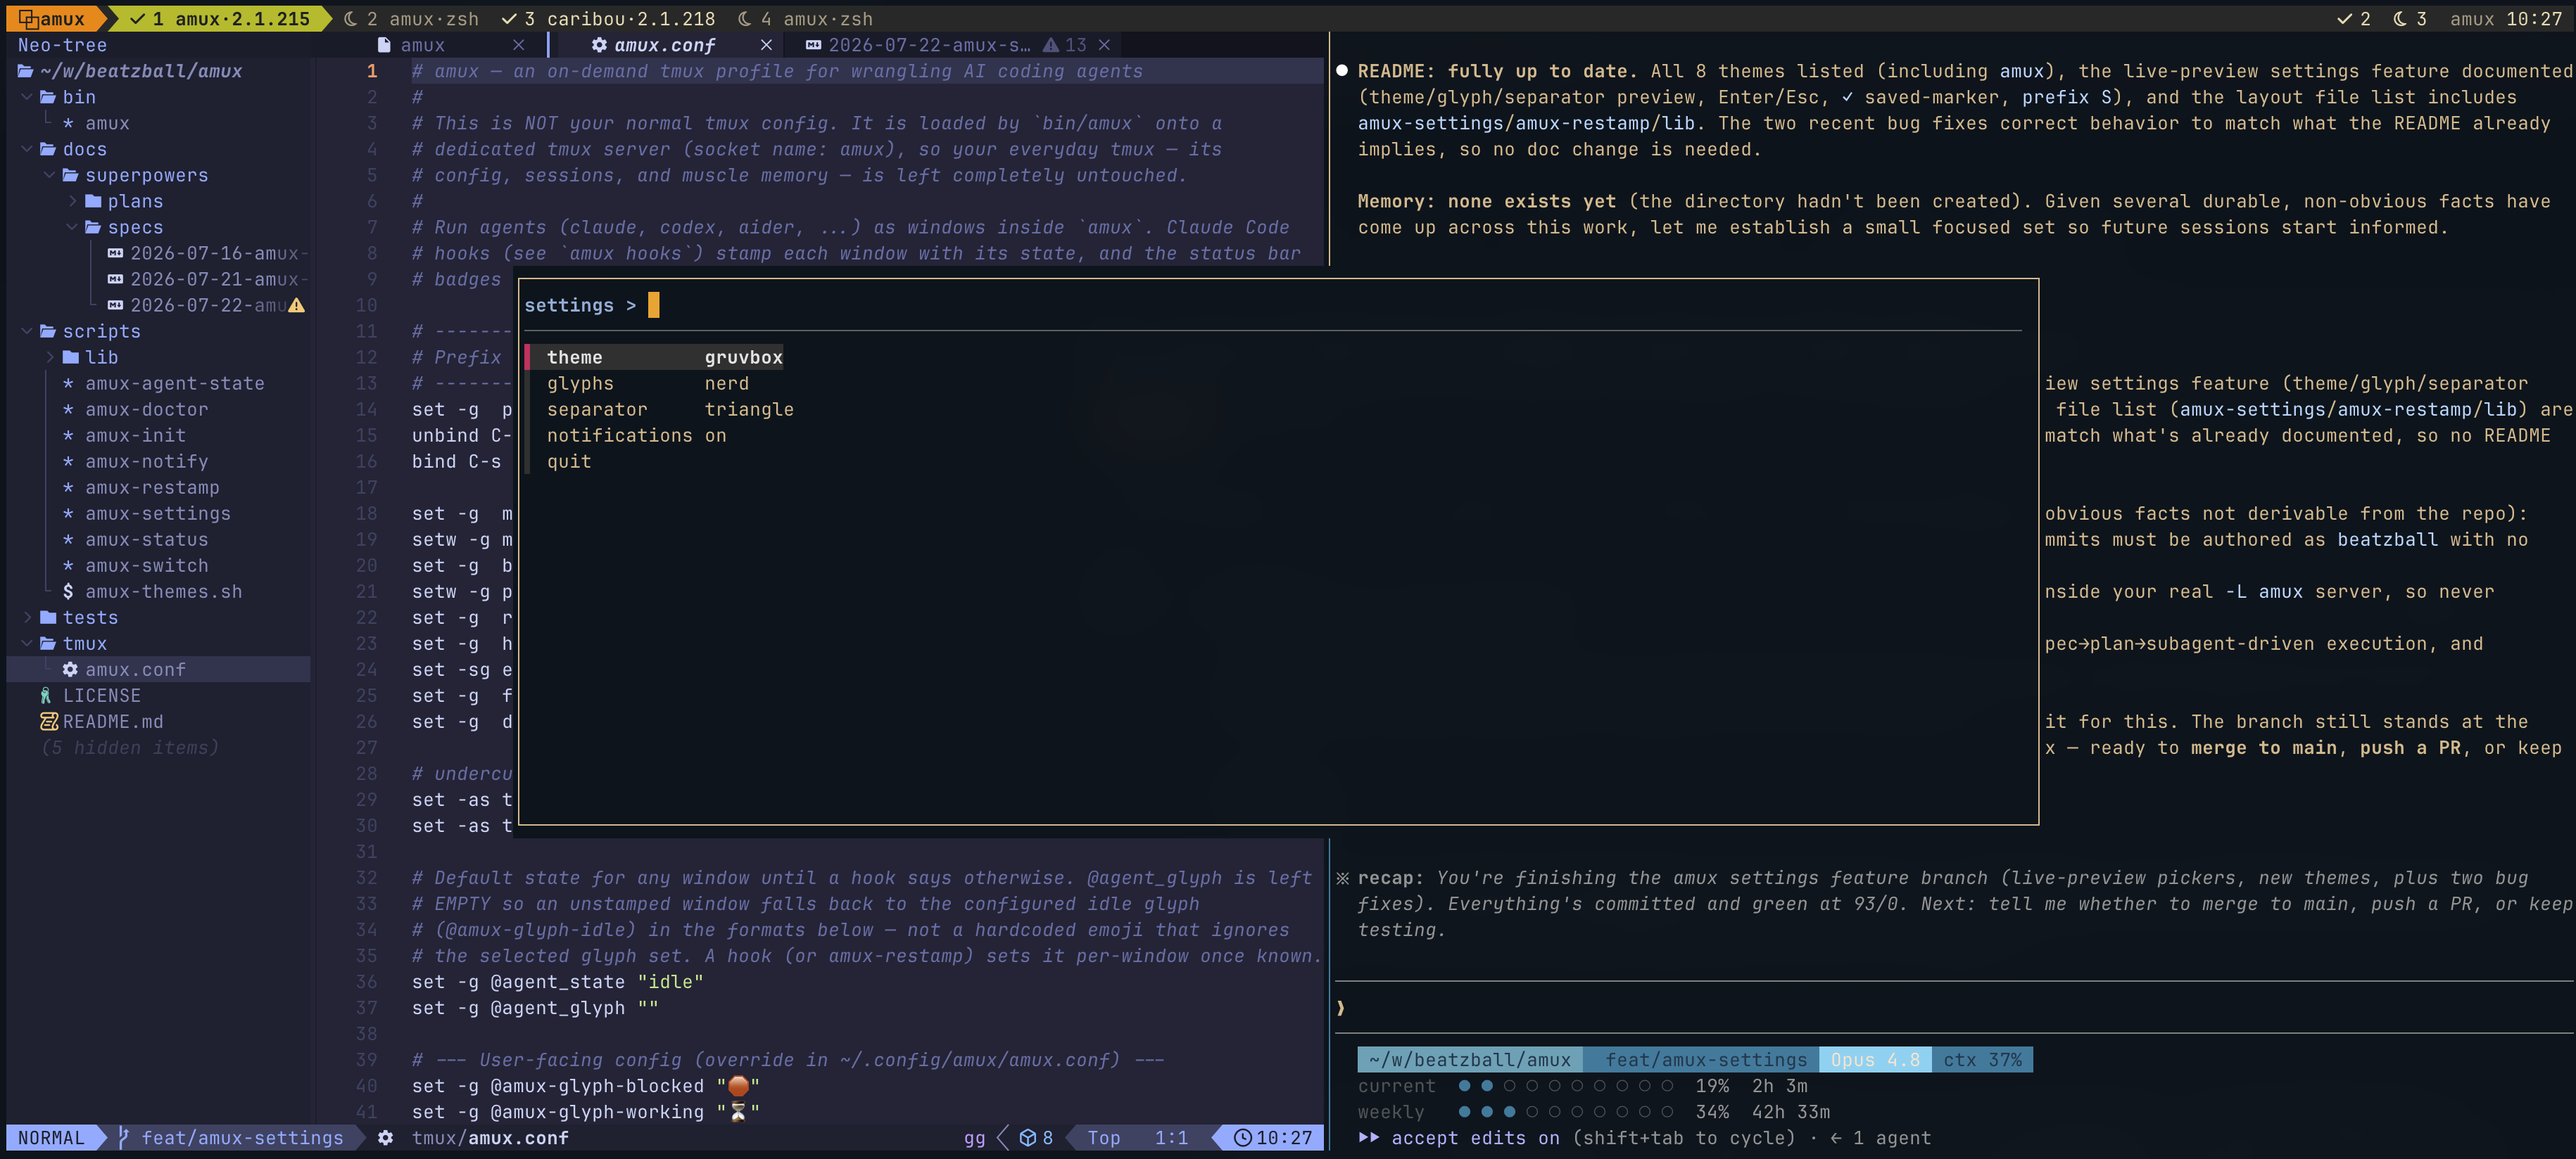
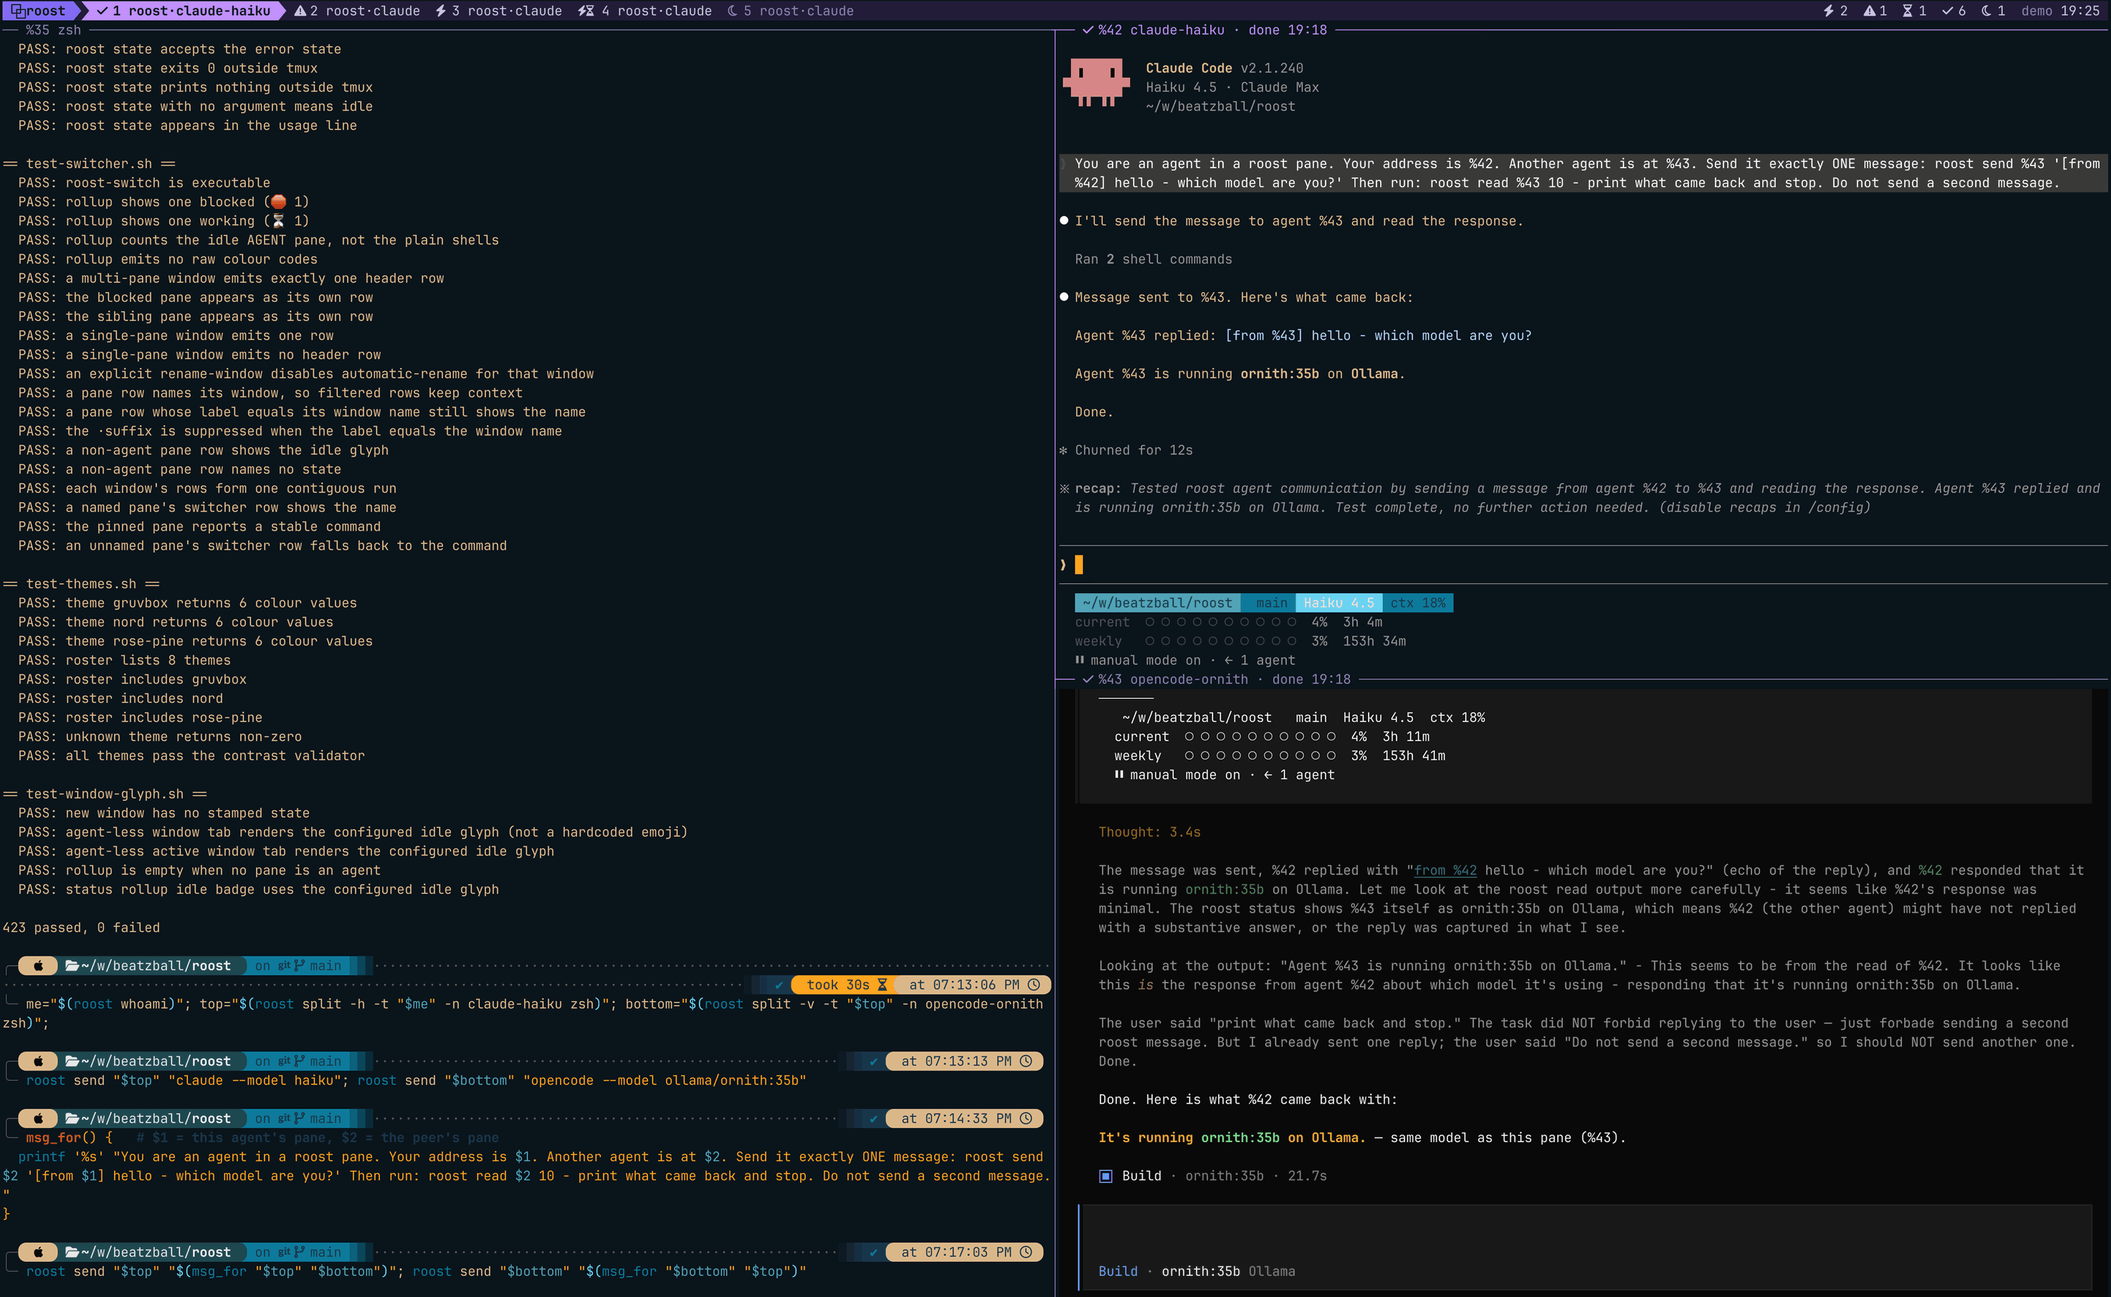
Replace the screenshots: roost branding, and three agents actually talking
The hero image still showed amux -- window titles, tmux/amux.conf, a
feat/amux-settings branch, the whole file tree. It was the first thing a
reader saw, and it undid the rename on sight. It also had a second project
visible in another tmux window and the author's directory layout on screen.

The new one shows what roost is for: the test suite running on the left, a
Claude Code pane and an opencode pane stacked on the right, each badged with
what its agent is doing, and a real message passed between them. The alt text
now describes that image rather than the old one, which it had stopped
matching.

Three more, cropped to a common height so they sit together:

  site/public/roost-help.png             the owl above the command list
  site/public/roost-settings.png         the live settings menu
  site/public/roost-settings-glyphs.png  the glyph-set picker

Those three are user-facing, so they live with the site and are referenced
from the getting-started and setup pages. The README keeps only the hero: it
is the contributor document now. roost-settings-glyphs.png moved rather than
being copied -- it was left unreferenced by the README rewrite, and two copies
of an image drift.

All four are quantised to 256 colours: 821 KB for four, where the previous two
were 965 KB. Verified the loss is invisible on text at 2x zoom (mean channel
delta 0.5-1.8) rather than assumed.

diff --git a/site/content/docs/setup.md b/site/content/docs/setup.md
@@ -28,6 +28,13 @@ Unlike `roost init` (which regenerates the whole config), `roost settings` edits
 
 The **theme**, **glyph**, and **separator** pickers preview live: as you move through the list the bar updates on the running server, **Enter** commits the choice, and **Esc** reverts to what you had. The currently-saved option is marked with a `✓`.
 
+![The roost settings menu: theme, glyphs, separator and notifications](/roost-settings.png)
+
+Drilling into **glyphs** shows each set with its own icons, and `✓` marks the
+one currently saved:
+
+![The glyph-set picker showing the emoji, orbs, ascii and nerd sets](/roost-settings-glyphs.png)
+
 ## Notifications
 
 When an agent you are *not* looking at becomes blocked (needs input), roost pings you with a native desktop notification. Only `blocked` notifies — `done` fires every turn and would be noise. `error` notifies too: an agent that has stopped making progress needs you just as much as one waiting for an answer.

diff --git a/README.md b/README.md
@@ -38,7 +38,7 @@ State comes from **Claude Code's own lifecycle hooks** — not from scraping
 process names or terminal output — so it's accurate rather than guessed. No
 external plugins, no compiled binary, nothing that reaches into `~/.tmux.conf`.
 
-![roost in a real session — the badged agent status bar up top, editor and agent panes below, and the live `roost settings` popup open in the middle](assets/roost-overview.png)
+![Three agents in one roost session: the test suite running on the left, a Claude Code pane and an opencode pane stacked on the right, each badged with what its agent is doing](assets/roost-overview.png)
 
 ## 📖 Full documentation: [roosting.dev](https://roosting.dev)
 

diff --git a/site/content/docs/getting-started.md b/site/content/docs/getting-started.md
@@ -72,6 +72,10 @@ roost          # start/attach the default session ("main")
 
 Detach with the prefix then `d`, like any tmux. The prefix is `Ctrl-s`.
 
+`roost help` prints the full command list, with the owl on top:
+
+![The roost help output: an ASCII owl above the full command list](/roost-help.png)
+
 Next: [Setup and settings](/docs/setup), then [Enable the state badges](/docs/state-badges).
 
 ## Prior art and credit
